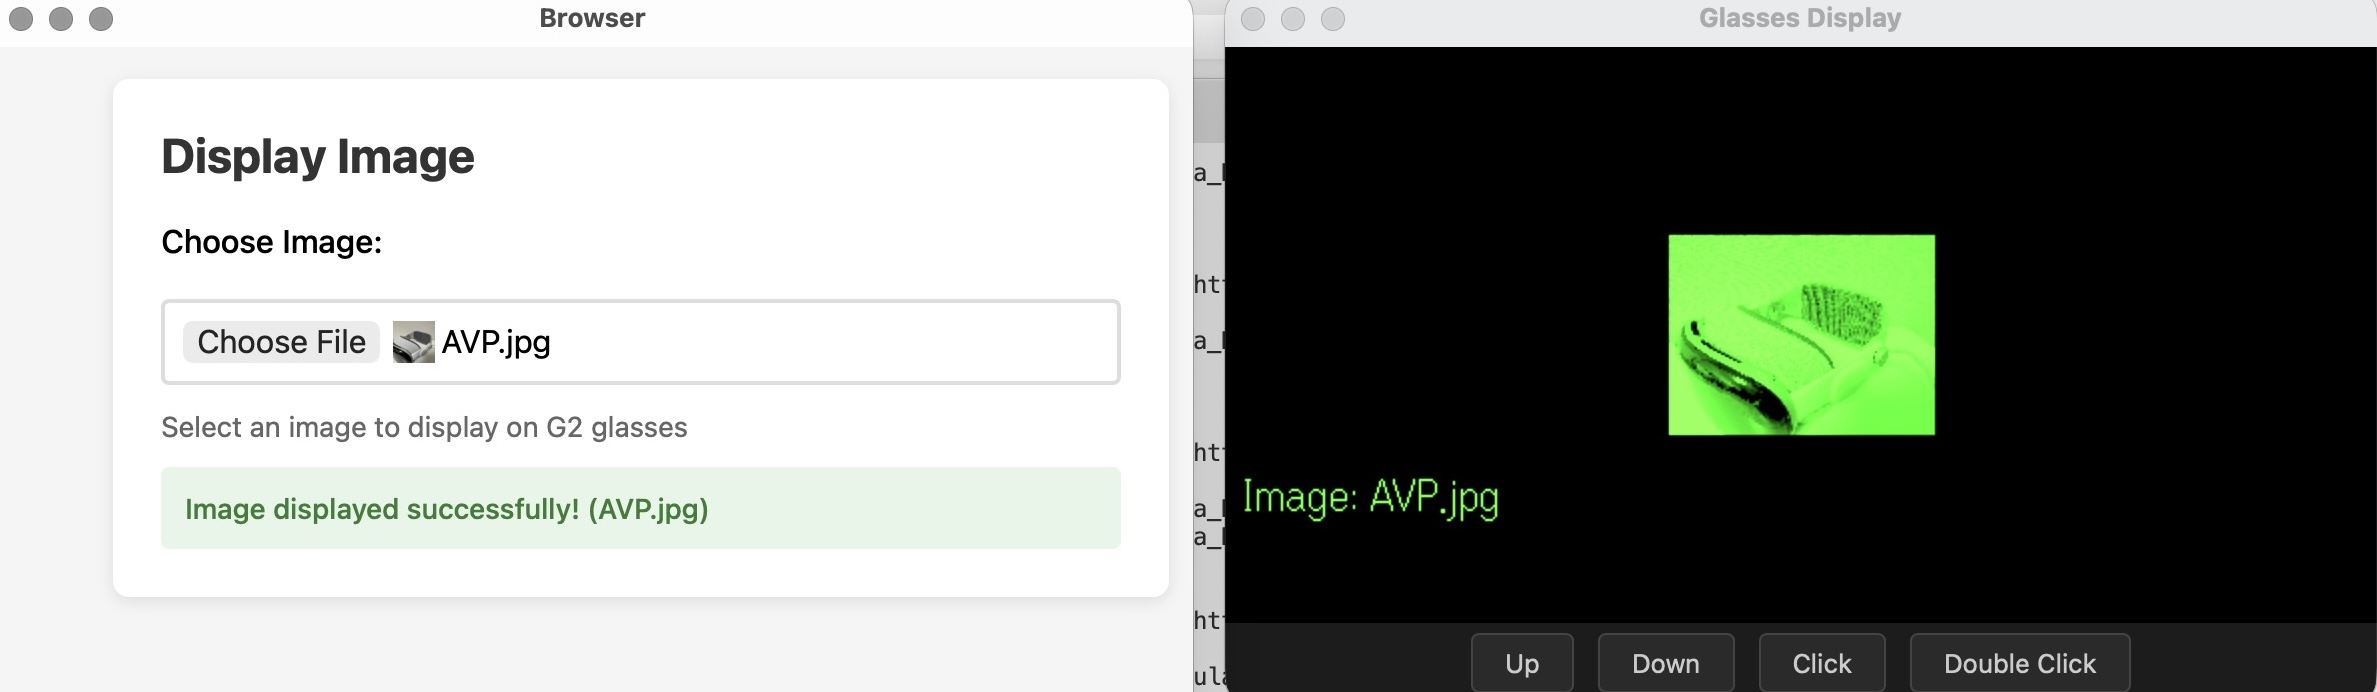
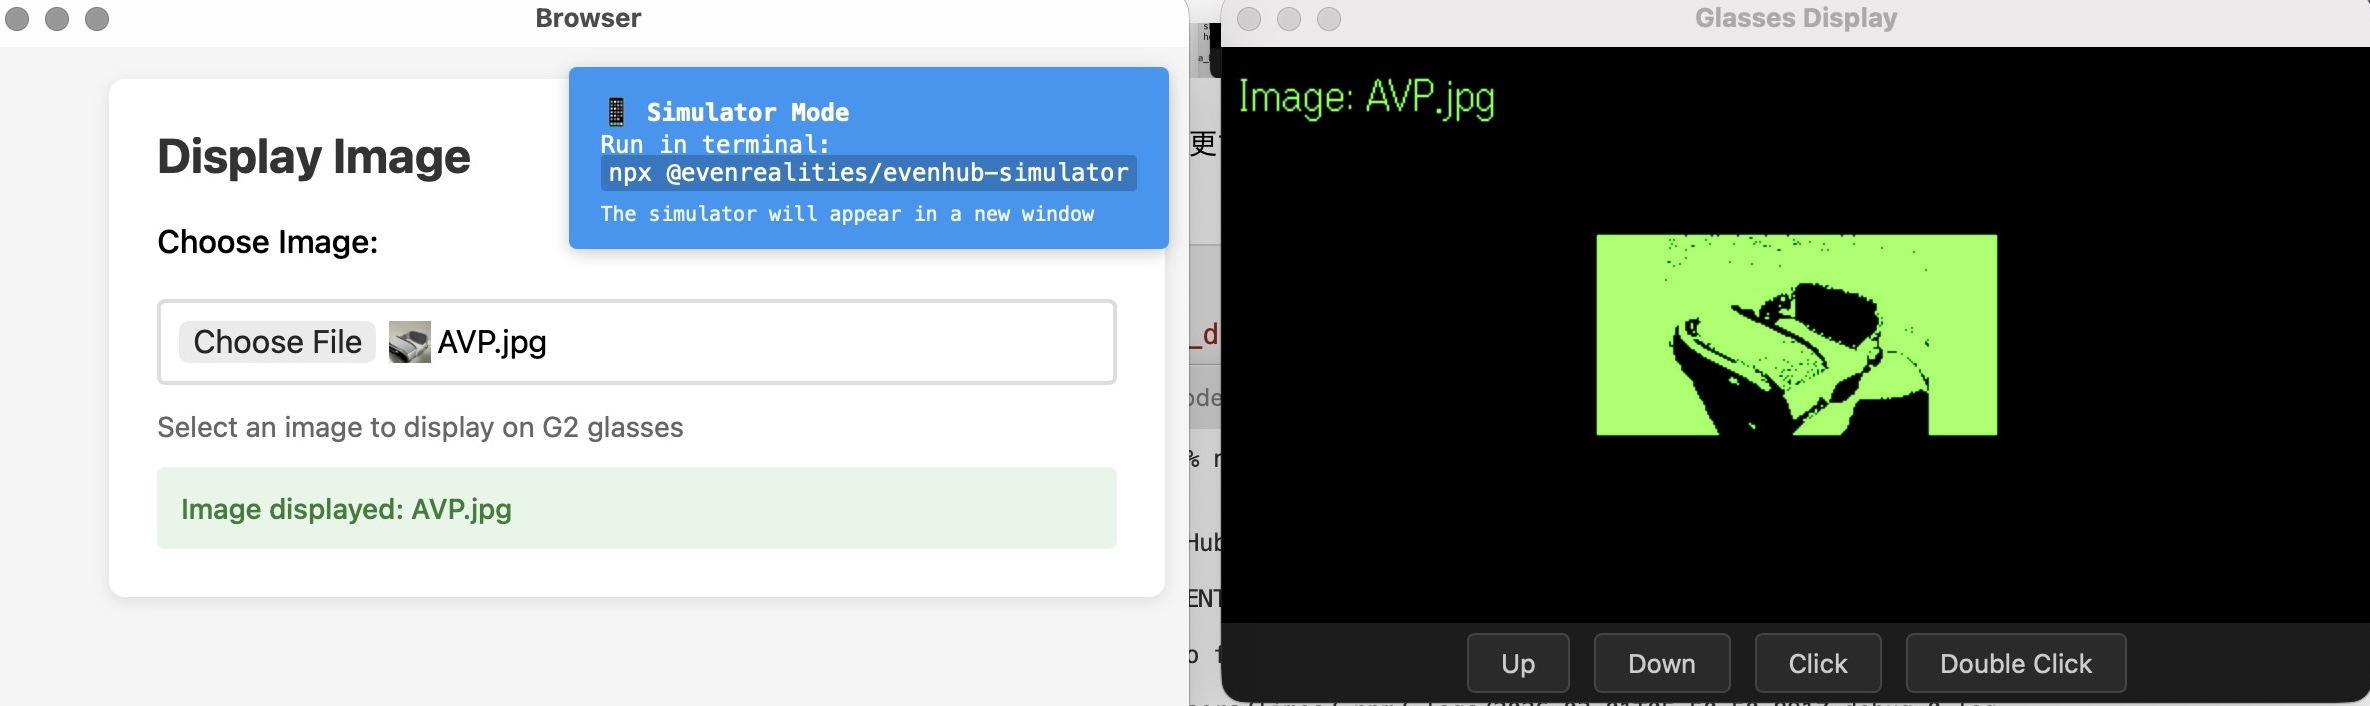
画像が表示される機能の説明を更新

diff --git a/Readme.md b/Readme.md
@@ -52,6 +52,10 @@ npm run simulator "http://localhost:5173/2_display_image_index.html?simulator=tr
 
 ![](./Pictures_forReadme/2_display_image.jpg)
 
+補足：  
+- スマートフォンから読み込む画像の解像度には制約がないようでした  
+- Even G2側には200px x 100pxの領域にしないと表示されませんでした    
+- jpg, bmpのどちらも表示できました  
 
 ```bash
 npm run simulator "http://localhost:5173/3_touch_sensor_operation_index.html?simulator=true"
@@ -120,9 +124,6 @@ npm rebuild @evenrealities/evenhub-simulator
 - [even-dev (開発環境)](https://github.com/BxNxM/even-dev)  
 
 
-## Known Issues
-
-2026/2/23時点では、2_display_imageが正しく動作していません。
 
 ## 補足
 
